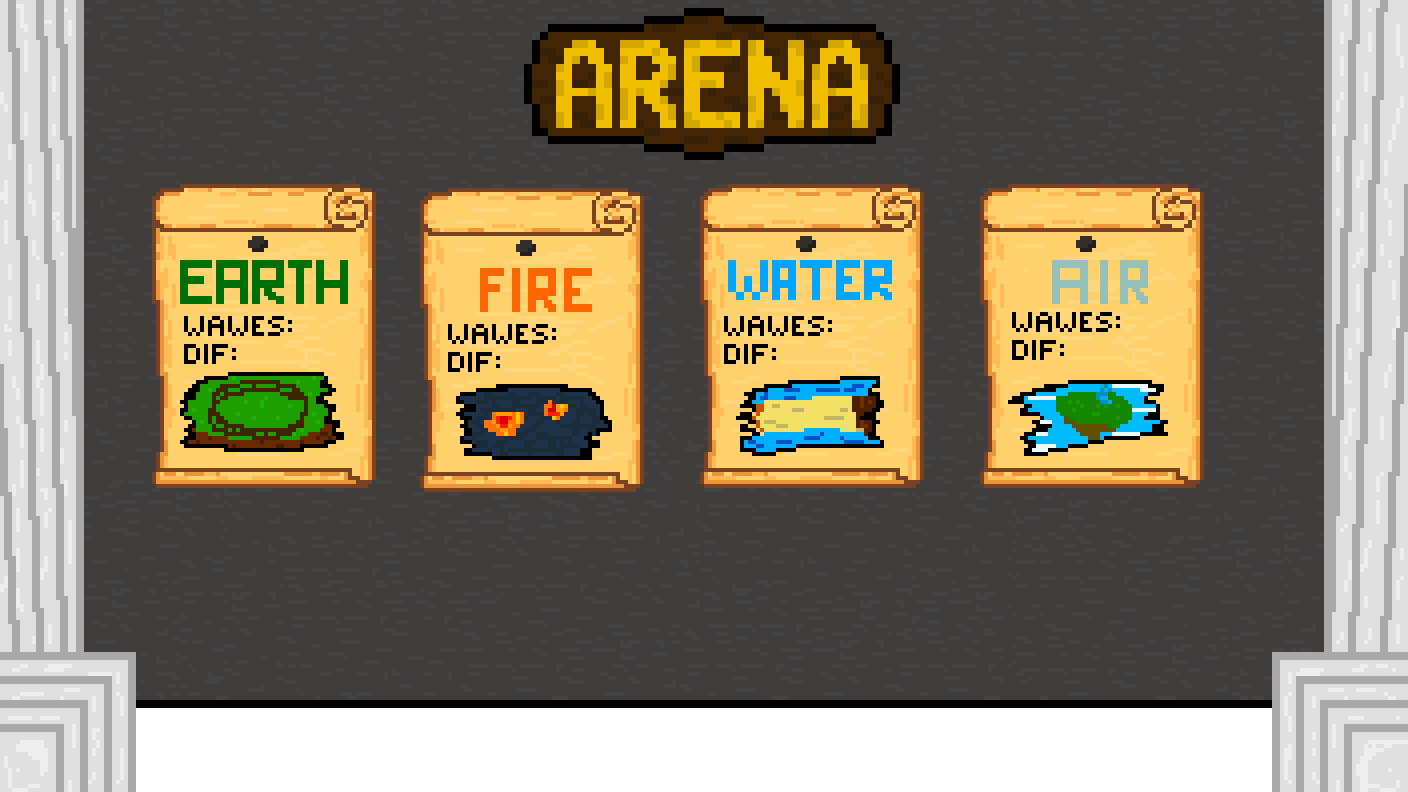
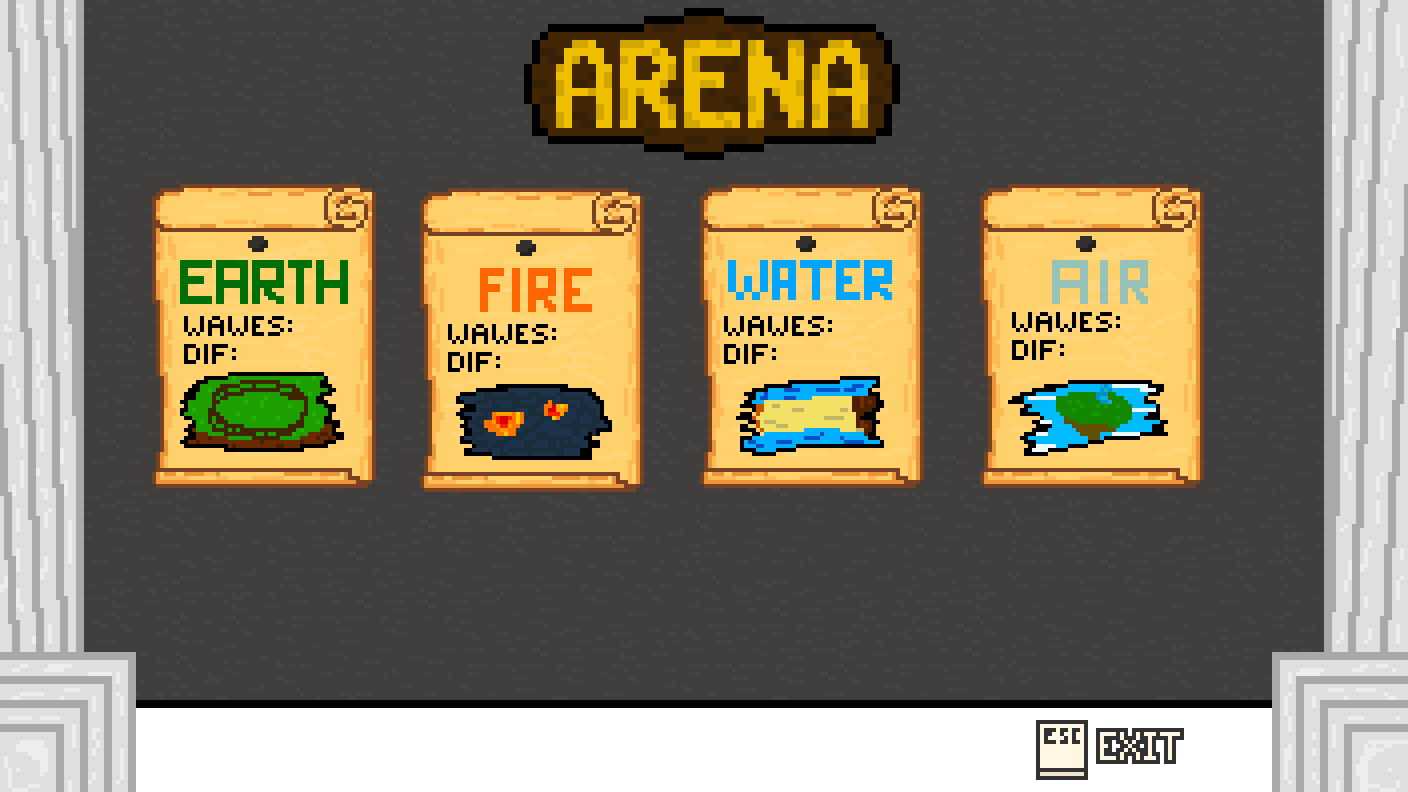
ArenaSelect update

Changed region(s): [[0.7188, 0.9091, 0.8438, 1.0]]

diff --git a/window.cpp b/window.cpp
@@ -221,9 +221,9 @@ void Window::handleEventsArenaSelect(){
         if(pos.x>152 && pos.x<373 && pos.y>184 && pos.y<484)
             changePlace(EARTH);
 
-
-
-    }
+        if(pos.x>1037 && pos.x<1184 && pos.y>720 && pos.y<782)
+            changePlace(LOBBY);
+        }
 
     if (sf::Mouse::isButtonPressed(sf::Mouse::Right)){
         //right
